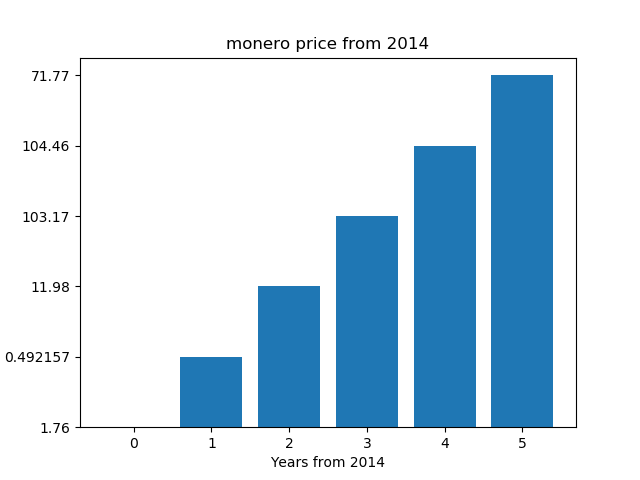
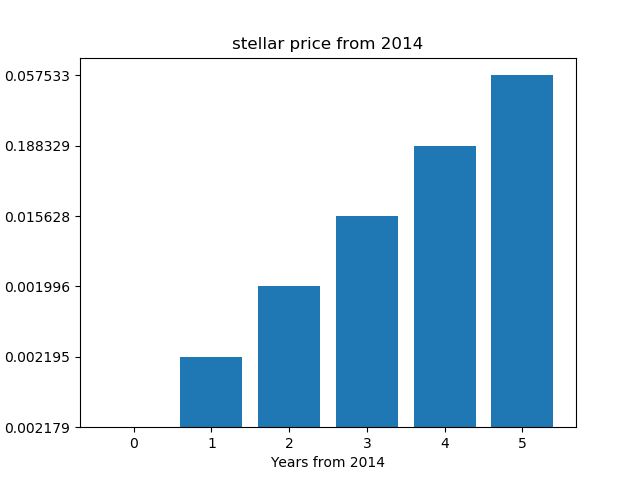
first commit

diff --git a/example.py b/example.py
@@ -10,7 +10,7 @@ from time import gmtime, strftime
 import matplotlib.pyplot as plt
 
 enddate = strftime("%Y%m%d", gmtime())
-r  = requests.get("https://coinmarketcap.com/currencies/monero/historical-data/?start=20140101&end={0}".format(enddate))
+r  = requests.get("https://coinmarketcap.com/currencies/stellar/historical-data/?start=20140101&end={0}".format(enddate))
 data = r.text
 
 soup = BeautifulSoup(data, "html.parser")
@@ -37,7 +37,7 @@ print(prices)
 
 x = list(range(0, len(prices)))
 
-plt.title('monero price from 2014')
+plt.title('stellar price from 2014')
 plt.ylabel('Price in USD')
 plt.xlabel('Years from 2014')
 plt.bar(x, prices)

diff --git a/README.md b/README.md
@@ -1,6 +1,6 @@
-# monero price chart 
+# stellar price chart 
 
-monero price chart (matplotlib, python)
+stellar price chart (matplotlib, python)
 
 https://pythonprogramminglanguage.com
 
